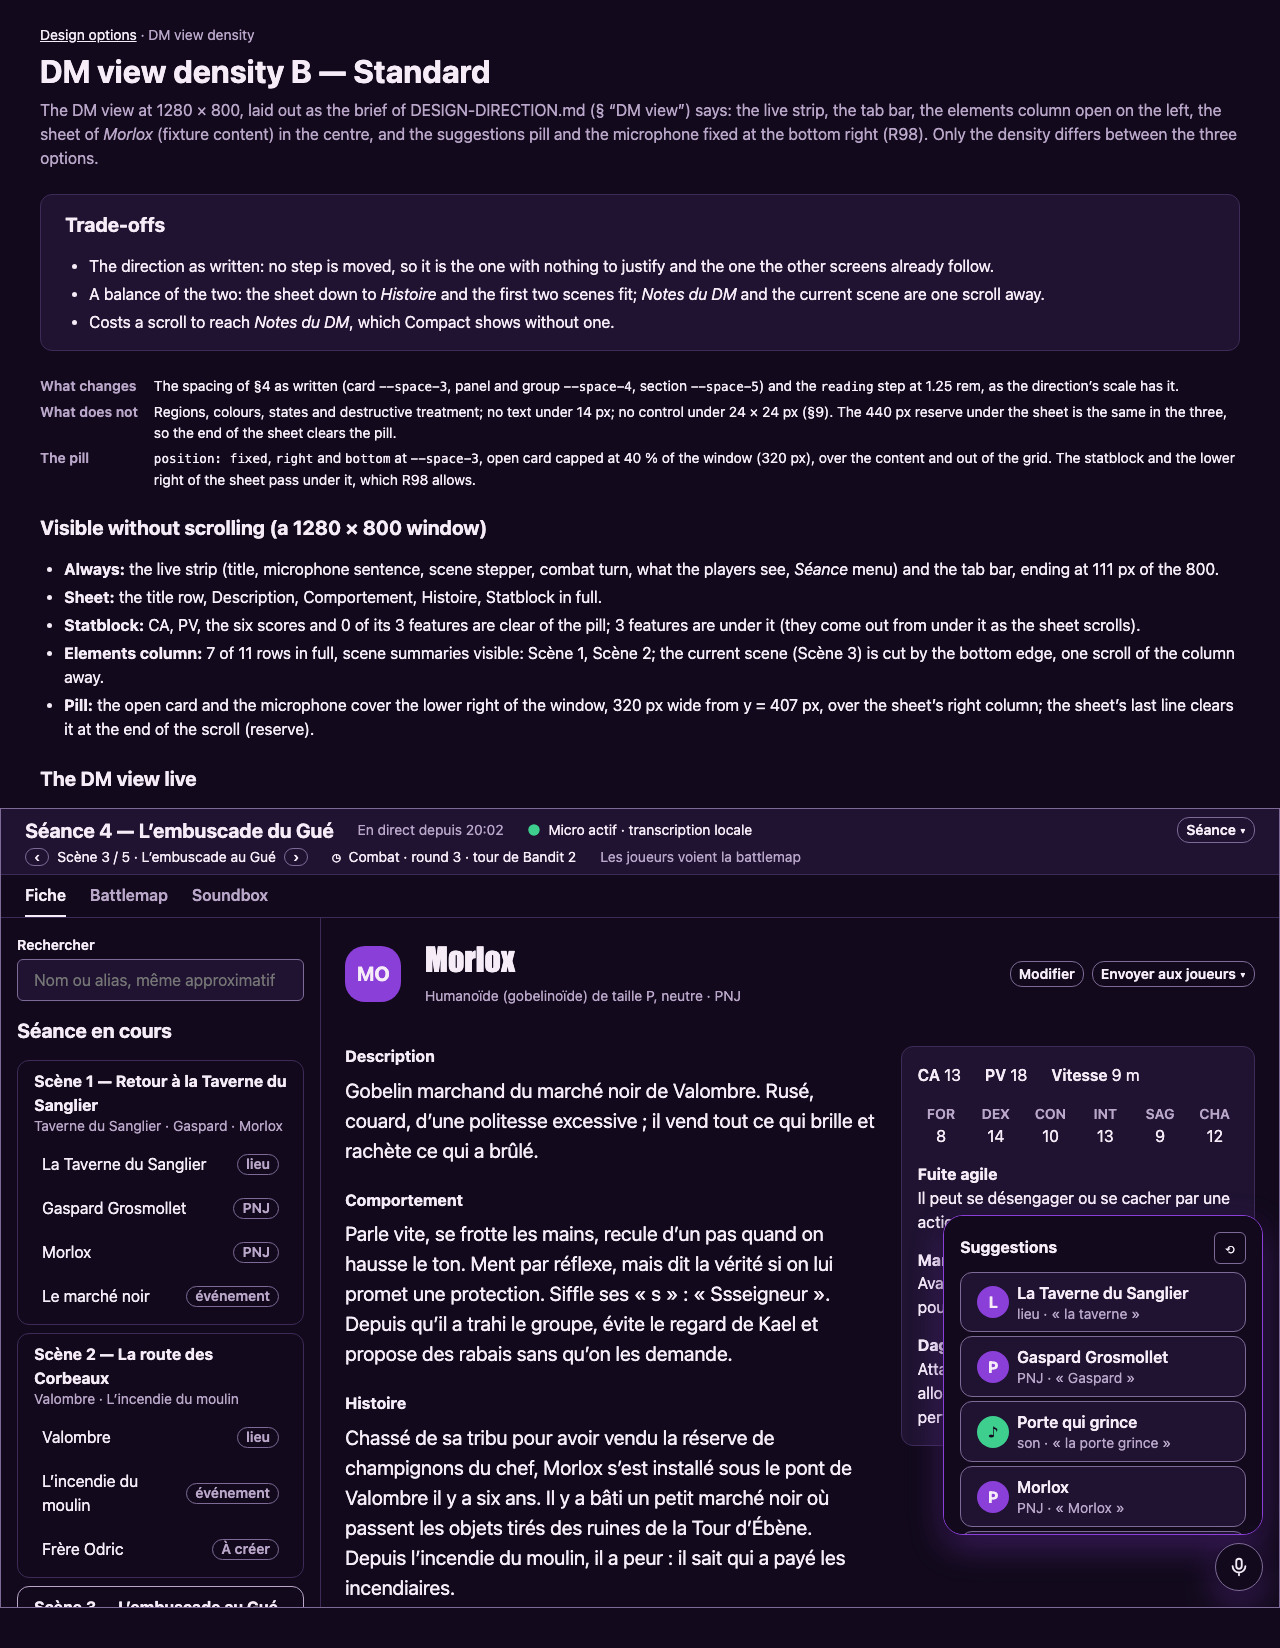
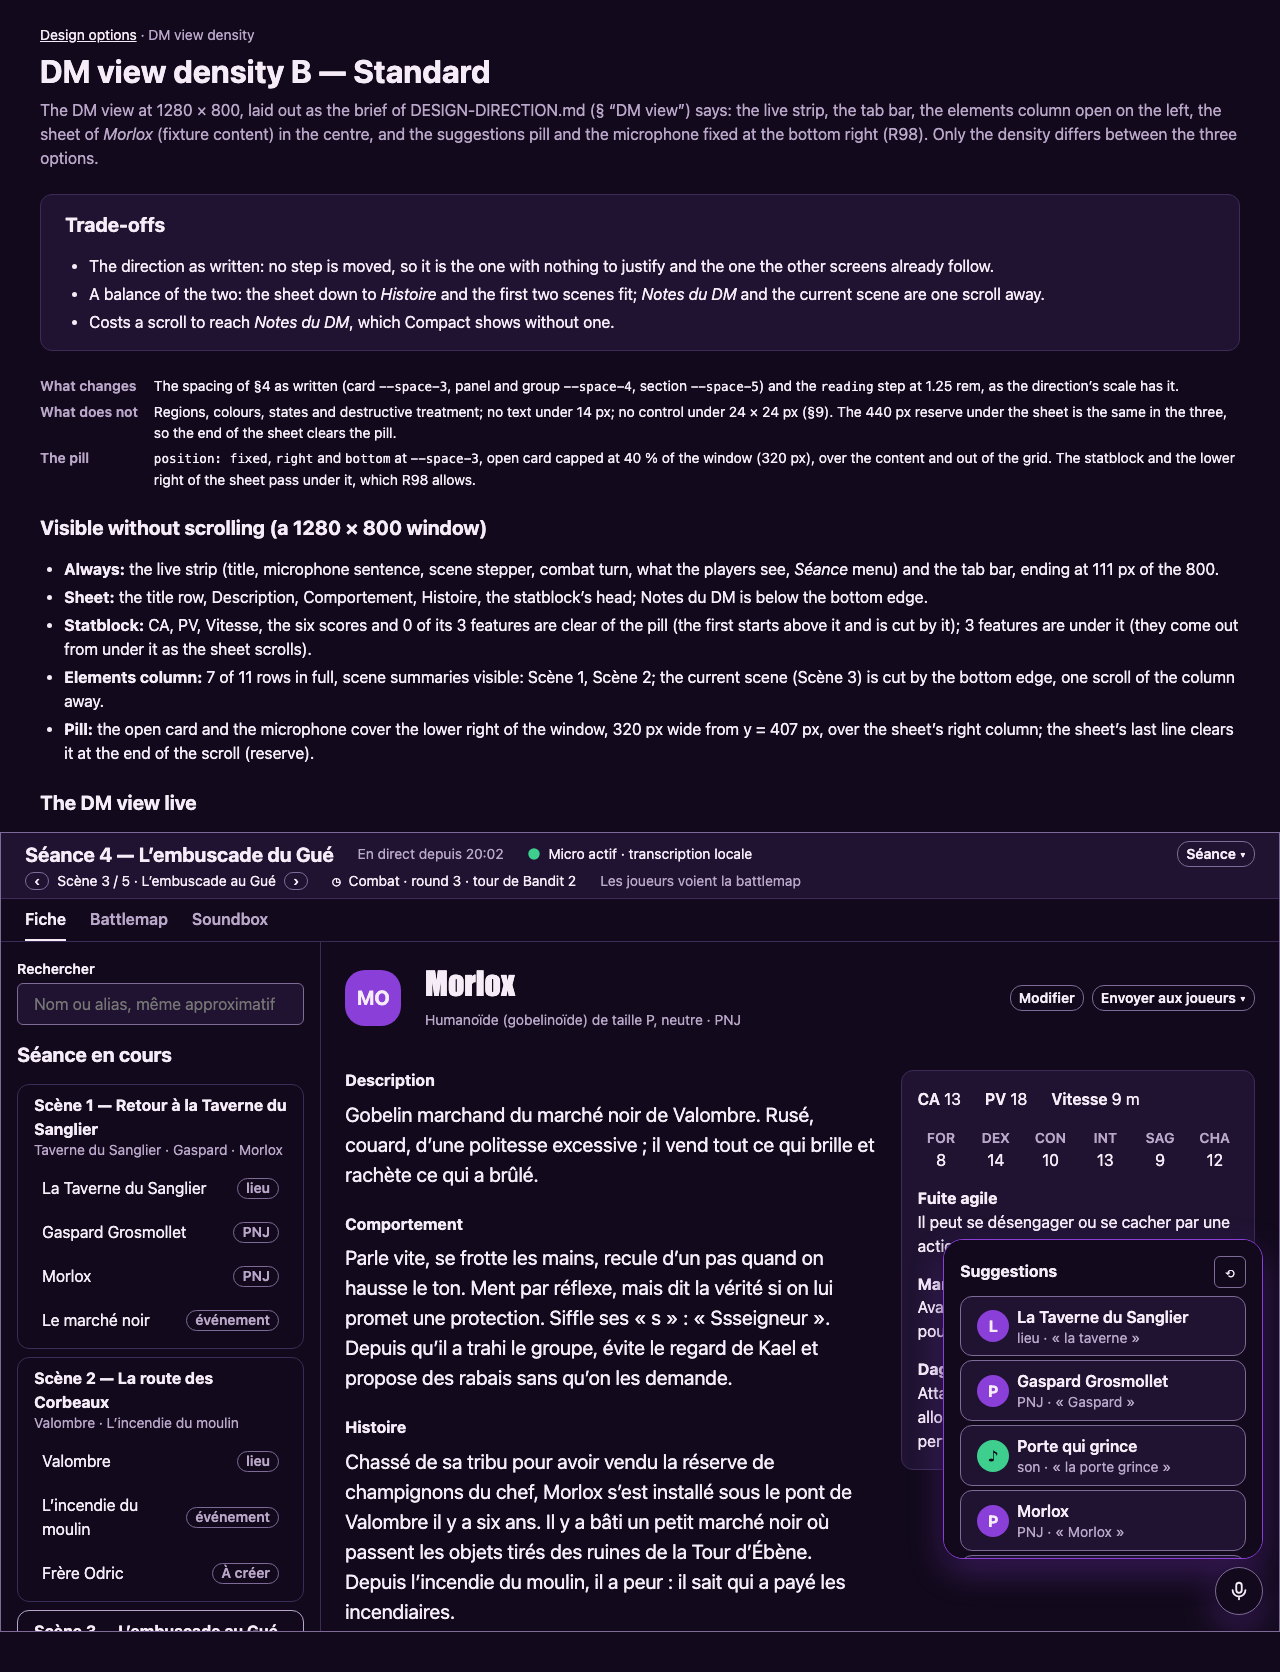
fix(design-options): density pages no longer claim the statblock is in full
Cause: the 'Visible without scrolling' section said 'Statblock in full' while its next bullet said 0 of 3 features clear of the pill; headless Chrome measure and the renders show only the statblock head (plus 1 feature in A) clear of the pill. Reworded in a, b, c; PNGs re-rendered (same viewport, a 1624, b 1672, c 1693 px).

Ruled out: none

diff --git a/docs/design-options/density-c.html b/docs/design-options/density-c.html
@@ -89,7 +89,7 @@ code{font-family:ui-monospace,Menlo,monospace;font-size:.9em}
 .doc{width:1280px;padding:var(--space-4) 0 var(--space-5)}.doc>section.tradeoffs{display:grid}.doc>header,.doc>section{margin:0 var(--space-5)}.doc>section.frame{margin:0}</style></head><body><main class="doc"><header><p class="crumb"><a href="index.html">Design options</a> · DM view density</p><h1>DM view density C — Roomy</h1><p class="muted">The DM view at 1280 × 800, laid out as the brief of DESIGN-DIRECTION.md (§ “DM view”) says: the live strip, the tab bar, the elements column open on the left, the sheet of <em>Morlox</em> (fixture content) in the centre, and the suggestions pill and the microphone fixed at the bottom right (R98). Only the density differs between the three options.</p></header>
 <section class="tradeoffs"><h2>Trade-offs</h2><ul><li>The easiest to read at a glance: the blocks are clearly separated, a row is a comfortable tap target (40 px, with a gap between rows) and nothing is dense.</li><li>Shows the least: the sheet down to <em>Comportement</em> (the <em>Histoire</em> block is cut by the bottom edge) and the first two scenes, so the DM scrolls most.</li><li>The same 320 px open card covers the same area of a window that shows less, so a larger share of what is shown sits next to the pill.</li></ul></section>
 <section><dl class="facts"><dt>What changes</dt><dd>Every gap inside the panels one step over the standard (§4: card <code>--space-4</code>, panel and group <code>--space-5</code>); <code>reading</code> stays at 1.25 rem, since the next step of the scale (2 rem) is a title’s.</dd><dt>What does not</dt><dd>Regions, colours, states and destructive treatment; no text under 14 px; no control under 24 × 24 px (§9). The 440 px reserve under the sheet is the same in the three, so the end of the sheet clears the pill.</dd><dt>The pill</dt><dd><code>position: fixed</code>, <code>right</code> and <code>bottom</code> at <code>--space-3</code>, open card capped at 40 % of the window (320 px), over the content and out of the grid. The statblock and the lower right of the sheet pass under it, which R98 allows.</dd></dl></section>
-<section class="visible"><h2>Visible without scrolling (a 1280 × 800 window)</h2><ul><li><strong>Always:</strong> the live strip (title, microphone sentence, scene stepper, combat turn, what the players see, <em>Séance</em> menu) and the tab bar, ending at 111 px of the 800.</li><li><strong>Sheet:</strong> the title row, Description, Comportement, Statblock in full; Histoire cut by the bottom edge.</li><li><strong>Statblock:</strong> CA, PV, the six scores and 0 of its 3 features are clear of the pill; 3 features are under it (they come out from under it as the sheet scrolls).</li><li><strong>Elements column:</strong> 7 of 11 rows in full, scene summaries visible: Scène 1, Scène 2; the current scene (Scène 3) is cut by the bottom edge, one scroll of the column away.</li><li><strong>Pill:</strong> the open card and the microphone cover the lower right of the window, 320 px wide from y = 407 px, over the sheet’s right column; the sheet’s last line clears it at the end of the scroll (reserve).</li></ul></section>
+<section class="visible"><h2>Visible without scrolling (a 1280 × 800 window)</h2><ul><li><strong>Always:</strong> the live strip (title, microphone sentence, scene stepper, combat turn, what the players see, <em>Séance</em> menu) and the tab bar, ending at 111 px of the 800.</li><li><strong>Sheet:</strong> the title row, Description, Comportement, the statblock’s head; Histoire cut by the bottom edge.</li><li><strong>Statblock:</strong> CA, PV, Vitesse, the six scores and 0 of its 3 features are clear of the pill (the first starts above it and is cut by it); 3 features are under it (they come out from under it as the sheet scrolls).</li><li><strong>Elements column:</strong> 7 of 11 rows in full, scene summaries visible: Scène 1, Scène 2; the current scene (Scène 3) is cut by the bottom edge, one scroll of the column away.</li><li><strong>Pill:</strong> the open card and the microphone cover the lower right of the window, 320 px wide from y = 407 px, over the sheet’s right column; the sheet’s last line clears it at the end of the scroll (reserve).</li></ul></section>
 <section class="frame"><h2 style="padding:0 var(--space-5)">The DM view live</h2><div class="win" style="--dm-panel:var(--space-5);--dm-card:var(--space-4);--dm-group:var(--space-5);--dm-section:var(--space-5);--dm-head:var(--space-3);--dm-row:var(--space-2);--dm-rowgap:var(--space-2);--dm-reading:var(--font-size-large)">
 <header class="strip" id="session-bar"><div class="r"><h1 title="Séance 4 — L’embuscade du Gué">Séance 4 — L’embuscade du Gué</h1><span class="small muted">En direct depuis 20:02</span><span class="live small grow"><span class="g" aria-hidden="true">●</span> Micro actif · transcription locale</span><button class="btn small" aria-expanded="false">Séance ▾</button></div>
 <div class="r small"><span class="stepper"><button class="btn small" aria-label="Scène précédente">‹</button><span>Scène 3 / 5 · L’embuscade au Gué</span><button class="btn small" aria-label="Scène suivante">›</button></span><span class="live"><span class="q" aria-hidden="true">◷</span> Combat · round 3 · tour de Bandit 2</span><span class="muted grow">Les joueurs voient la battlemap</span></div></header>

diff --git a/docs/design-options/density-b.html b/docs/design-options/density-b.html
@@ -89,7 +89,7 @@ code{font-family:ui-monospace,Menlo,monospace;font-size:.9em}
 .doc{width:1280px;padding:var(--space-4) 0 var(--space-5)}.doc>section.tradeoffs{display:grid}.doc>header,.doc>section{margin:0 var(--space-5)}.doc>section.frame{margin:0}</style></head><body><main class="doc"><header><p class="crumb"><a href="index.html">Design options</a> · DM view density</p><h1>DM view density B — Standard</h1><p class="muted">The DM view at 1280 × 800, laid out as the brief of DESIGN-DIRECTION.md (§ “DM view”) says: the live strip, the tab bar, the elements column open on the left, the sheet of <em>Morlox</em> (fixture content) in the centre, and the suggestions pill and the microphone fixed at the bottom right (R98). Only the density differs between the three options.</p></header>
 <section class="tradeoffs"><h2>Trade-offs</h2><ul><li>The direction as written: no step is moved, so it is the one with nothing to justify and the one the other screens already follow.</li><li>A balance of the two: the sheet down to <em>Histoire</em> and the first two scenes fit; <em>Notes du DM</em> and the current scene are one scroll away.</li><li>Costs a scroll to reach <em>Notes du DM</em>, which Compact shows without one.</li></ul></section>
 <section><dl class="facts"><dt>What changes</dt><dd>The spacing of §4 as written (card <code>--space-3</code>, panel and group <code>--space-4</code>, section <code>--space-5</code>) and the <code>reading</code> step at 1.25 rem, as the direction’s scale has it.</dd><dt>What does not</dt><dd>Regions, colours, states and destructive treatment; no text under 14 px; no control under 24 × 24 px (§9). The 440 px reserve under the sheet is the same in the three, so the end of the sheet clears the pill.</dd><dt>The pill</dt><dd><code>position: fixed</code>, <code>right</code> and <code>bottom</code> at <code>--space-3</code>, open card capped at 40 % of the window (320 px), over the content and out of the grid. The statblock and the lower right of the sheet pass under it, which R98 allows.</dd></dl></section>
-<section class="visible"><h2>Visible without scrolling (a 1280 × 800 window)</h2><ul><li><strong>Always:</strong> the live strip (title, microphone sentence, scene stepper, combat turn, what the players see, <em>Séance</em> menu) and the tab bar, ending at 111 px of the 800.</li><li><strong>Sheet:</strong> the title row, Description, Comportement, Histoire, Statblock in full.</li><li><strong>Statblock:</strong> CA, PV, the six scores and 0 of its 3 features are clear of the pill; 3 features are under it (they come out from under it as the sheet scrolls).</li><li><strong>Elements column:</strong> 7 of 11 rows in full, scene summaries visible: Scène 1, Scène 2; the current scene (Scène 3) is cut by the bottom edge, one scroll of the column away.</li><li><strong>Pill:</strong> the open card and the microphone cover the lower right of the window, 320 px wide from y = 407 px, over the sheet’s right column; the sheet’s last line clears it at the end of the scroll (reserve).</li></ul></section>
+<section class="visible"><h2>Visible without scrolling (a 1280 × 800 window)</h2><ul><li><strong>Always:</strong> the live strip (title, microphone sentence, scene stepper, combat turn, what the players see, <em>Séance</em> menu) and the tab bar, ending at 111 px of the 800.</li><li><strong>Sheet:</strong> the title row, Description, Comportement, Histoire, the statblock’s head; Notes du DM is below the bottom edge.</li><li><strong>Statblock:</strong> CA, PV, Vitesse, the six scores and 0 of its 3 features are clear of the pill (the first starts above it and is cut by it); 3 features are under it (they come out from under it as the sheet scrolls).</li><li><strong>Elements column:</strong> 7 of 11 rows in full, scene summaries visible: Scène 1, Scène 2; the current scene (Scène 3) is cut by the bottom edge, one scroll of the column away.</li><li><strong>Pill:</strong> the open card and the microphone cover the lower right of the window, 320 px wide from y = 407 px, over the sheet’s right column; the sheet’s last line clears it at the end of the scroll (reserve).</li></ul></section>
 <section class="frame"><h2 style="padding:0 var(--space-5)">The DM view live</h2><div class="win" style="--dm-panel:var(--space-4);--dm-card:var(--space-3);--dm-group:var(--space-4);--dm-section:var(--space-5);--dm-head:var(--space-2);--dm-row:var(--space-2);--dm-rowgap:var(--space-1);--dm-reading:var(--font-size-large)">
 <header class="strip" id="session-bar"><div class="r"><h1 title="Séance 4 — L’embuscade du Gué">Séance 4 — L’embuscade du Gué</h1><span class="small muted">En direct depuis 20:02</span><span class="live small grow"><span class="g" aria-hidden="true">●</span> Micro actif · transcription locale</span><button class="btn small" aria-expanded="false">Séance ▾</button></div>
 <div class="r small"><span class="stepper"><button class="btn small" aria-label="Scène précédente">‹</button><span>Scène 3 / 5 · L’embuscade au Gué</span><button class="btn small" aria-label="Scène suivante">›</button></span><span class="live"><span class="q" aria-hidden="true">◷</span> Combat · round 3 · tour de Bandit 2</span><span class="muted grow">Les joueurs voient la battlemap</span></div></header>

diff --git a/docs/design-options/density-a.html b/docs/design-options/density-a.html
@@ -89,7 +89,7 @@ code{font-family:ui-monospace,Menlo,monospace;font-size:.9em}
 .doc{width:1280px;padding:var(--space-4) 0 var(--space-5)}.doc>section.tradeoffs{display:grid}.doc>header,.doc>section{margin:0 var(--space-5)}.doc>section.frame{margin:0}</style></head><body><main class="doc"><header><p class="crumb"><a href="index.html">Design options</a> · DM view density</p><h1>DM view density A — Compact</h1><p class="muted">The DM view at 1280 × 800, laid out as the brief of DESIGN-DIRECTION.md (§ “DM view”) says: the live strip, the tab bar, the elements column open on the left, the sheet of <em>Morlox</em> (fixture content) in the centre, and the suggestions pill and the microphone fixed at the bottom right (R98). Only the density differs between the three options.</p></header>
 <section class="tradeoffs"><h2>Trade-offs</h2><ul><li>Shows the most: the whole sheet down to <em>Notes du DM</em> and all three scene headings of the elements column without a scroll, so fewer scrolls at the table.</li><li>Reading at 1 rem is the smallest the DM reads a sheet at from an arm’s length; the brief’s own “reading” size (1.25 rem) is given up.</li><li>Rows of the elements column are 32 px high with no gap: above the 24 px floor, but the narrowest targets of the three for a tap on a tablet.</li></ul></section>
 <section><dl class="facts"><dt>What changes</dt><dd>Every gap inside the panels one step under the standard (§4); the <code>reading</code> step moves one step down, from 1.25 rem to 1 rem (the <code>body</code> size).</dd><dt>What does not</dt><dd>Regions, colours, states and destructive treatment; no text under 14 px; no control under 24 × 24 px (§9). The 440 px reserve under the sheet is the same in the three, so the end of the sheet clears the pill.</dd><dt>The pill</dt><dd><code>position: fixed</code>, <code>right</code> and <code>bottom</code> at <code>--space-3</code>, open card capped at 40 % of the window (320 px), over the content and out of the grid. The statblock and the lower right of the sheet pass under it, which R98 allows.</dd></dl></section>
-<section class="visible"><h2>Visible without scrolling (a 1280 × 800 window)</h2><ul><li><strong>Always:</strong> the live strip (title, microphone sentence, scene stepper, combat turn, what the players see, <em>Séance</em> menu) and the tab bar, ending at 111 px of the 800.</li><li><strong>Sheet:</strong> the title row, Description, Comportement, Histoire, Notes du DM, Statblock in full.</li><li><strong>Statblock:</strong> CA, PV, the six scores and 1 of its 3 features are clear of the pill; 2 features are under it (they come out from under it as the sheet scrolls).</li><li><strong>Elements column:</strong> 7 of 11 rows in full, scene summaries visible: Scène 1, Scène 2, Scène 3.</li><li><strong>Pill:</strong> the open card and the microphone cover the lower right of the window, 320 px wide from y = 407 px, over the sheet’s right column; the sheet’s last line clears it at the end of the scroll (reserve).</li></ul></section>
+<section class="visible"><h2>Visible without scrolling (a 1280 × 800 window)</h2><ul><li><strong>Always:</strong> the live strip (title, microphone sentence, scene stepper, combat turn, what the players see, <em>Séance</em> menu) and the tab bar, ending at 111 px of the 800.</li><li><strong>Sheet:</strong> the title row, Description, Comportement, Histoire, Notes du DM, the statblock’s head.</li><li><strong>Statblock:</strong> CA, PV, Vitesse, the six scores and 1 of its 3 features are clear of the pill; 2 features are under it (they come out from under it as the sheet scrolls).</li><li><strong>Elements column:</strong> 7 of 11 rows in full, scene summaries visible: Scène 1, Scène 2, Scène 3.</li><li><strong>Pill:</strong> the open card and the microphone cover the lower right of the window, 320 px wide from y = 407 px, over the sheet’s right column; the sheet’s last line clears it at the end of the scroll (reserve).</li></ul></section>
 <section class="frame"><h2 style="padding:0 var(--space-5)">The DM view live</h2><div class="win" style="--dm-panel:var(--space-3);--dm-card:var(--space-2);--dm-group:var(--space-3);--dm-section:var(--space-4);--dm-head:var(--space-1);--dm-row:var(--space-1);--dm-rowgap:0px;--dm-reading:var(--font-size-base)">
 <header class="strip" id="session-bar"><div class="r"><h1 title="Séance 4 — L’embuscade du Gué">Séance 4 — L’embuscade du Gué</h1><span class="small muted">En direct depuis 20:02</span><span class="live small grow"><span class="g" aria-hidden="true">●</span> Micro actif · transcription locale</span><button class="btn small" aria-expanded="false">Séance ▾</button></div>
 <div class="r small"><span class="stepper"><button class="btn small" aria-label="Scène précédente">‹</button><span>Scène 3 / 5 · L’embuscade au Gué</span><button class="btn small" aria-label="Scène suivante">›</button></span><span class="live"><span class="q" aria-hidden="true">◷</span> Combat · round 3 · tour de Bandit 2</span><span class="muted grow">Les joueurs voient la battlemap</span></div></header>
